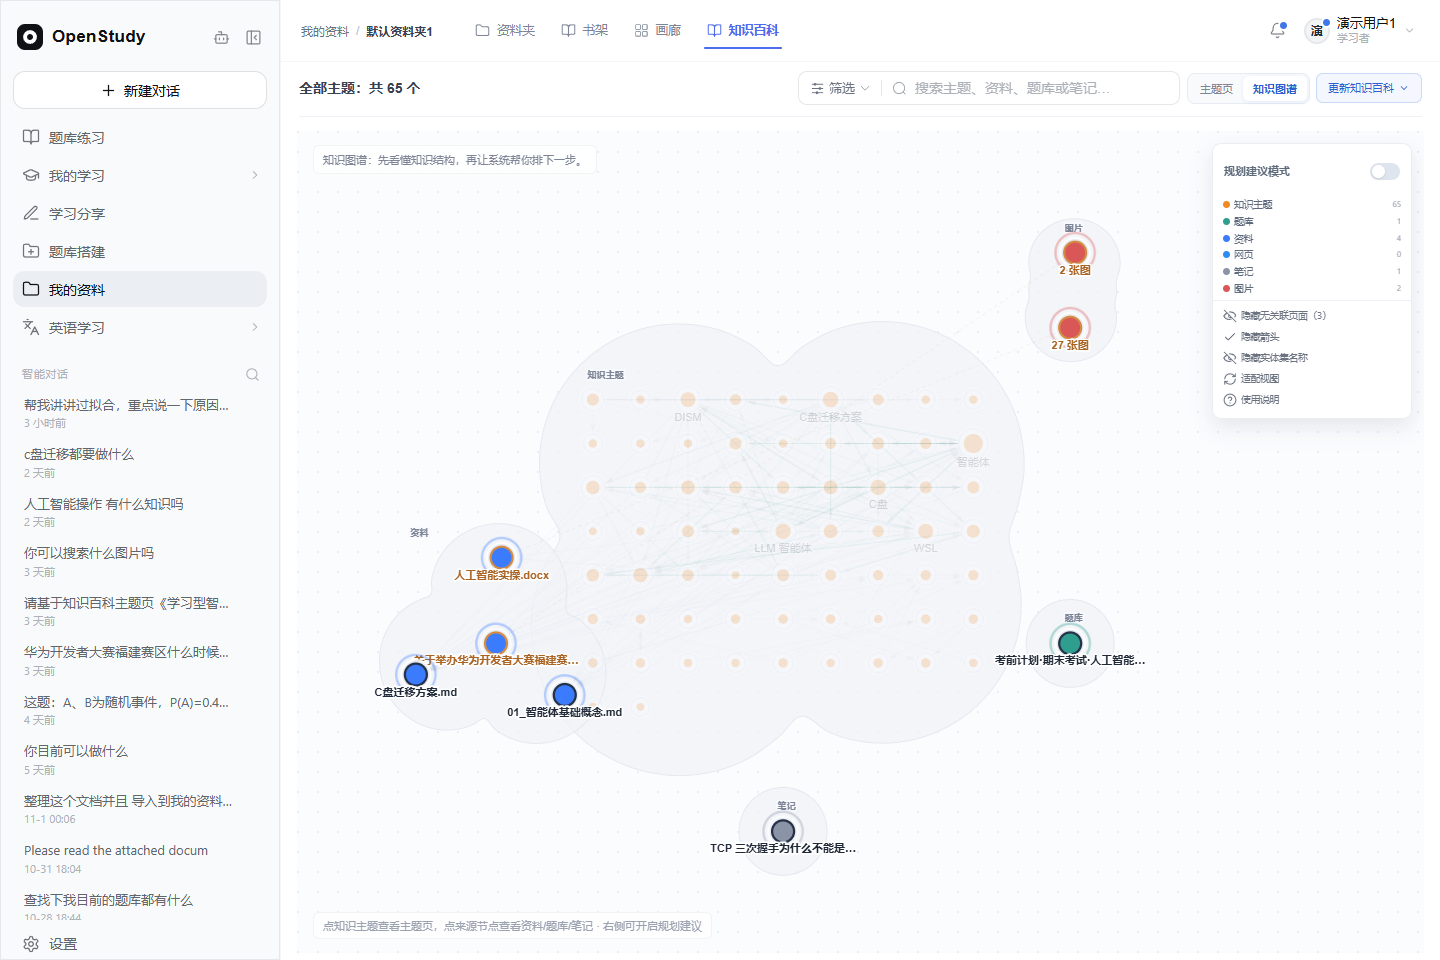
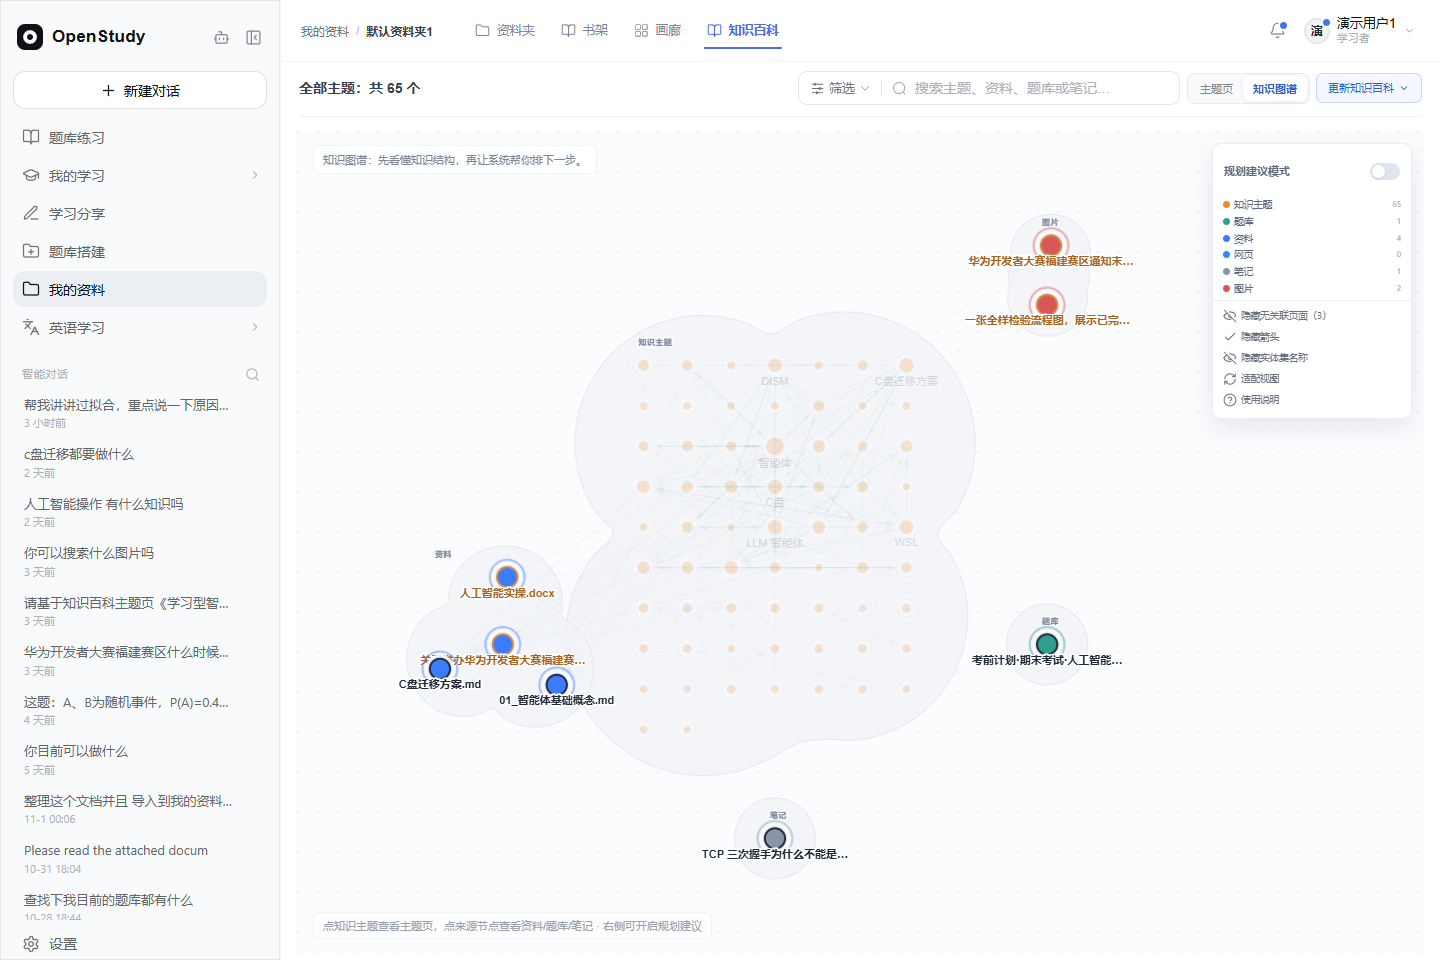
fix: improve image semantics and initial graph spacing

diff --git a/openstudy-vue3-ts/src/views/front/workspace/components/KnowledgeWikiPanel.vue b/openstudy-vue3-ts/src/views/front/workspace/components/KnowledgeWikiPanel.vue
@@ -926,11 +926,11 @@ const mapNodes = computed(() => {
   const usableWidth = Math.max(640, width - 230)
   const kindCenters: Record<string, { x: number; y: number }> = {
     topic: { x: usableWidth * 0.5, y: height * 0.5 },
-    document: { x: usableWidth * 0.15, y: height * 0.62 },
-    bank: { x: usableWidth * 0.85, y: height * 0.62 },
-    web: { x: usableWidth * 0.15, y: height * 0.2 },
-    note: { x: usableWidth * 0.5, y: height * 0.87 },
-    image: { x: usableWidth * 0.85, y: height * 0.2 }
+    document: { x: usableWidth * 0.14, y: height * 0.64 },
+    bank: { x: usableWidth * 0.86, y: height * 0.64 },
+    web: { x: usableWidth * 0.14, y: height * 0.15 },
+    note: { x: usableWidth * 0.5, y: height * 0.92 },
+    image: { x: usableWidth * 0.86, y: height * 0.15 }
   }
   const result: any[] = []
   visibleComponents.forEach((component, componentIndex) => {
@@ -943,9 +943,9 @@ const mapNodes = computed(() => {
     const center = kindCenters[component.kind] || fallbackCenter
     const radius = component.kind === 'topic'
       ? Math.min(240, 70 + Math.sqrt(members.length) * 22)
-      : Math.min(150, 54 + Math.sqrt(members.length) * 20)
+      : Math.min(130, 48 + Math.sqrt(members.length) * 16)
     const topicCols = component.kind === 'topic'
-      ? Math.max(4, Math.ceil(Math.sqrt(members.length * 1.1)))
+      ? Math.max(4, Math.ceil(Math.sqrt(members.length * 0.75)))
       : 0
     const topicRows = topicCols ? Math.ceil(members.length / topicCols) : 0
     const orbit = members.filter((node) => node !== hub)
@@ -1735,6 +1735,13 @@ const MAP_SIMULATION_NODE_LIMIT = 80
 function startMapAnimation() {
   stopMapAnimation()
   if (view.value !== 'map' || detailVisible.value || !mapNodes.value.length) return
+  // 六类实体集使用预先计算的稳定分区布局；初始力导向会让不同实体集互相挤压，
+  // 第一屏看起来像“几个图叠在一起”，因此分组图不再启动自动力导向。
+  if (mapComponents.value.components.length >= 2) {
+    mapSimAlpha = 0
+    mapSimNodes = []
+    return
+  }
   // 大图禁用初始力导向：几百个节点时 O(n²) 模拟会持续触发重绘，
   // 静态布局已经足够可读，优先保证拖拽/缩放的帧率。
   if (mapNodes.value.length > MAP_SIMULATION_NODE_LIMIT) {

diff --git a/openstudy-fastapi/app/services/rag/study_map_service.py b/openstudy-fastapi/app/services/rag/study_map_service.py
@@ -61,6 +61,24 @@ def _safe_text(value: Any, limit: int = 160) -> str:
     return text if len(text) <= limit else f"{text[: limit - 1]}…"
 
 
+def _image_group_title(doc: Any, assets: Sequence[RagImageAsset]) -> tuple[str, str]:
+    """图片组节点用“图片内容/来源”命名，不只显示“N 张图”。"""
+    doc_name = _safe_text(getattr(doc, "file_name", "") or "", 80)
+    for asset in assets:
+        caption = _safe_text(
+            getattr(asset, "caption", "")
+            or getattr(asset, "ocr_text", "")
+            or " ".join(getattr(asset, "keywords", []) or []),
+            48,
+        )
+        if caption and caption not in {"图片", "截图", "image", "图片描述"}:
+            subtitle = f"{doc_name} · {len(assets)} 张配图" if doc_name else f"{len(assets)} 张配图"
+            return caption, subtitle
+    if doc_name:
+        return f"{doc_name} 配图", f"{len(assets)} 张配图"
+    return "资料配图", f"{len(assets)} 张配图"
+
+
 def _parse_source_types(value: Optional[Iterable[str] | str]) -> Set[str]:
     if value is None:
         return set(DEFAULT_SOURCE_TYPES)
@@ -530,17 +548,33 @@ async def build_study_map(
                 continue
             node_id = _image_id(doc_id)
             if node_id not in {str(n["id"]) for n in nodes}:
+                doc = doc_by_id.get(doc_id)
+                image_title, image_subtitle = _image_group_title(doc, assets)
+                image_summary = "；".join(
+                    [
+                        text
+                        for text in (
+                            _safe_text(asset.caption or asset.ocr_text, 80)
+                            for asset in assets[:3]
+                        )
+                        if text
+                    ]
+                ) or image_subtitle
                 nodes.append(
                     {
                         "id": node_id,
                         "kind": "image",
-                        "title": f"{len(assets)} 张图",
-                        "subtitle": "资料图片",
-                        "groupId": f"kb:{_safe_int(getattr(doc_by_id.get(doc_id), 'kb_id', 0))}",
+                        "title": image_title,
+                        "subtitle": image_subtitle,
+                        "groupId": f"kb:{_safe_int(getattr(doc, 'kb_id', 0))}",
                         "source": "image",
                         "ref": {"pageId": 0, "bankId": 0, "docId": int(doc_id), "noteId": 0, "assetKey": ""},
                         "metrics": {"degree": 1, "imageCount": len(assets)},
-                        "detail": {"captions": [_safe_text(asset.caption, 40) for asset in assets[:5]]},
+                        "detail": {
+                            "summary": image_summary,
+                            "captions": [_safe_text(asset.caption, 40) for asset in assets[:5]],
+                            "imageKinds": sorted({str(asset.kind or "image") for asset in assets}),
+                        },
                     }
                 )
             doc_node = (

diff --git a/doc/planning/知识图谱统一-实施记录.md b/doc/planning/知识图谱统一-实施记录.md
@@ -63,7 +63,9 @@
 - 右侧实体集面板预留约 230px 布局安全区，避免来源组被面板遮挡；
 - 主题节点使用中央网格布局，来源组围绕其排列；
 - 主题节点网格间距扩大到 `52×48`，节点半径收敛到 5–14px，连线提高可见度；
-- 标签使用按缩放反算的字号，并做简单碰撞避让：缩放后只显示不重叠的标签，避免整屏名字挤在一起。
+- 标签使用按缩放反算的字号，并做简单碰撞避让：缩放后只显示不重叠的标签，避免整屏名字挤在一起；
+- 图片组节点不再只显示「N 张图」：优先使用图片 caption/OCR 描述作为标题，文档名 + 图片数量作为副标题；
+- 分组图关闭初始力导向，使用稳定的分区布局，避免第一屏实体集互相挤压。
 
 ### 1.7 跨图桥接视觉
 
